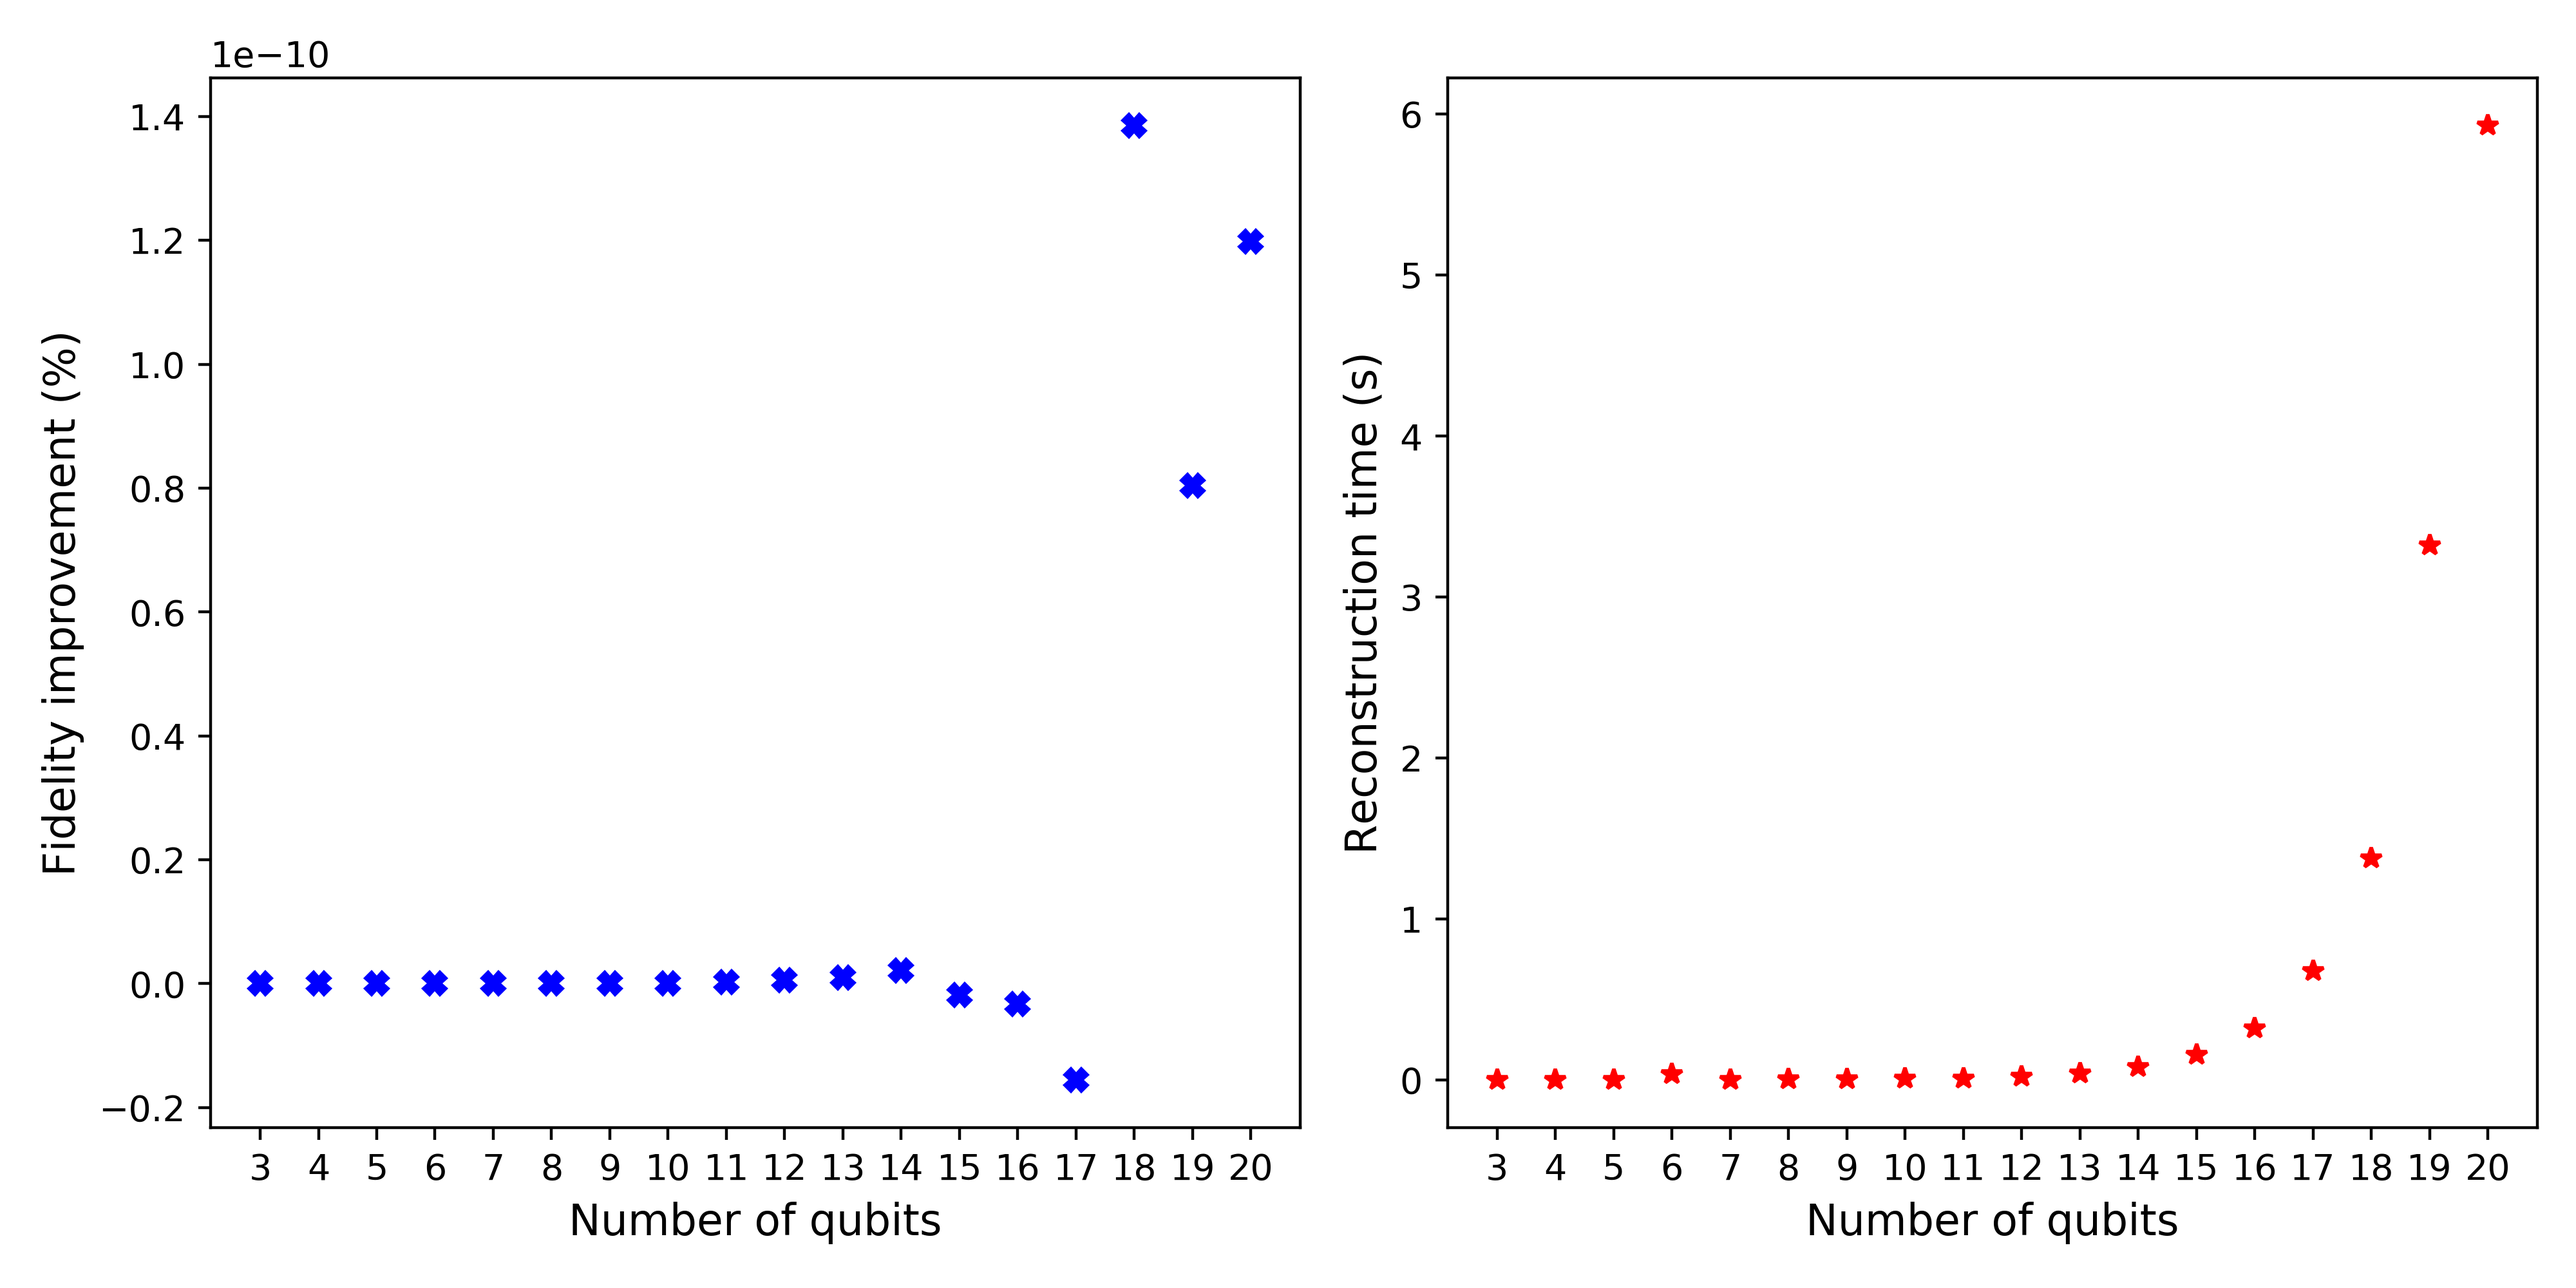
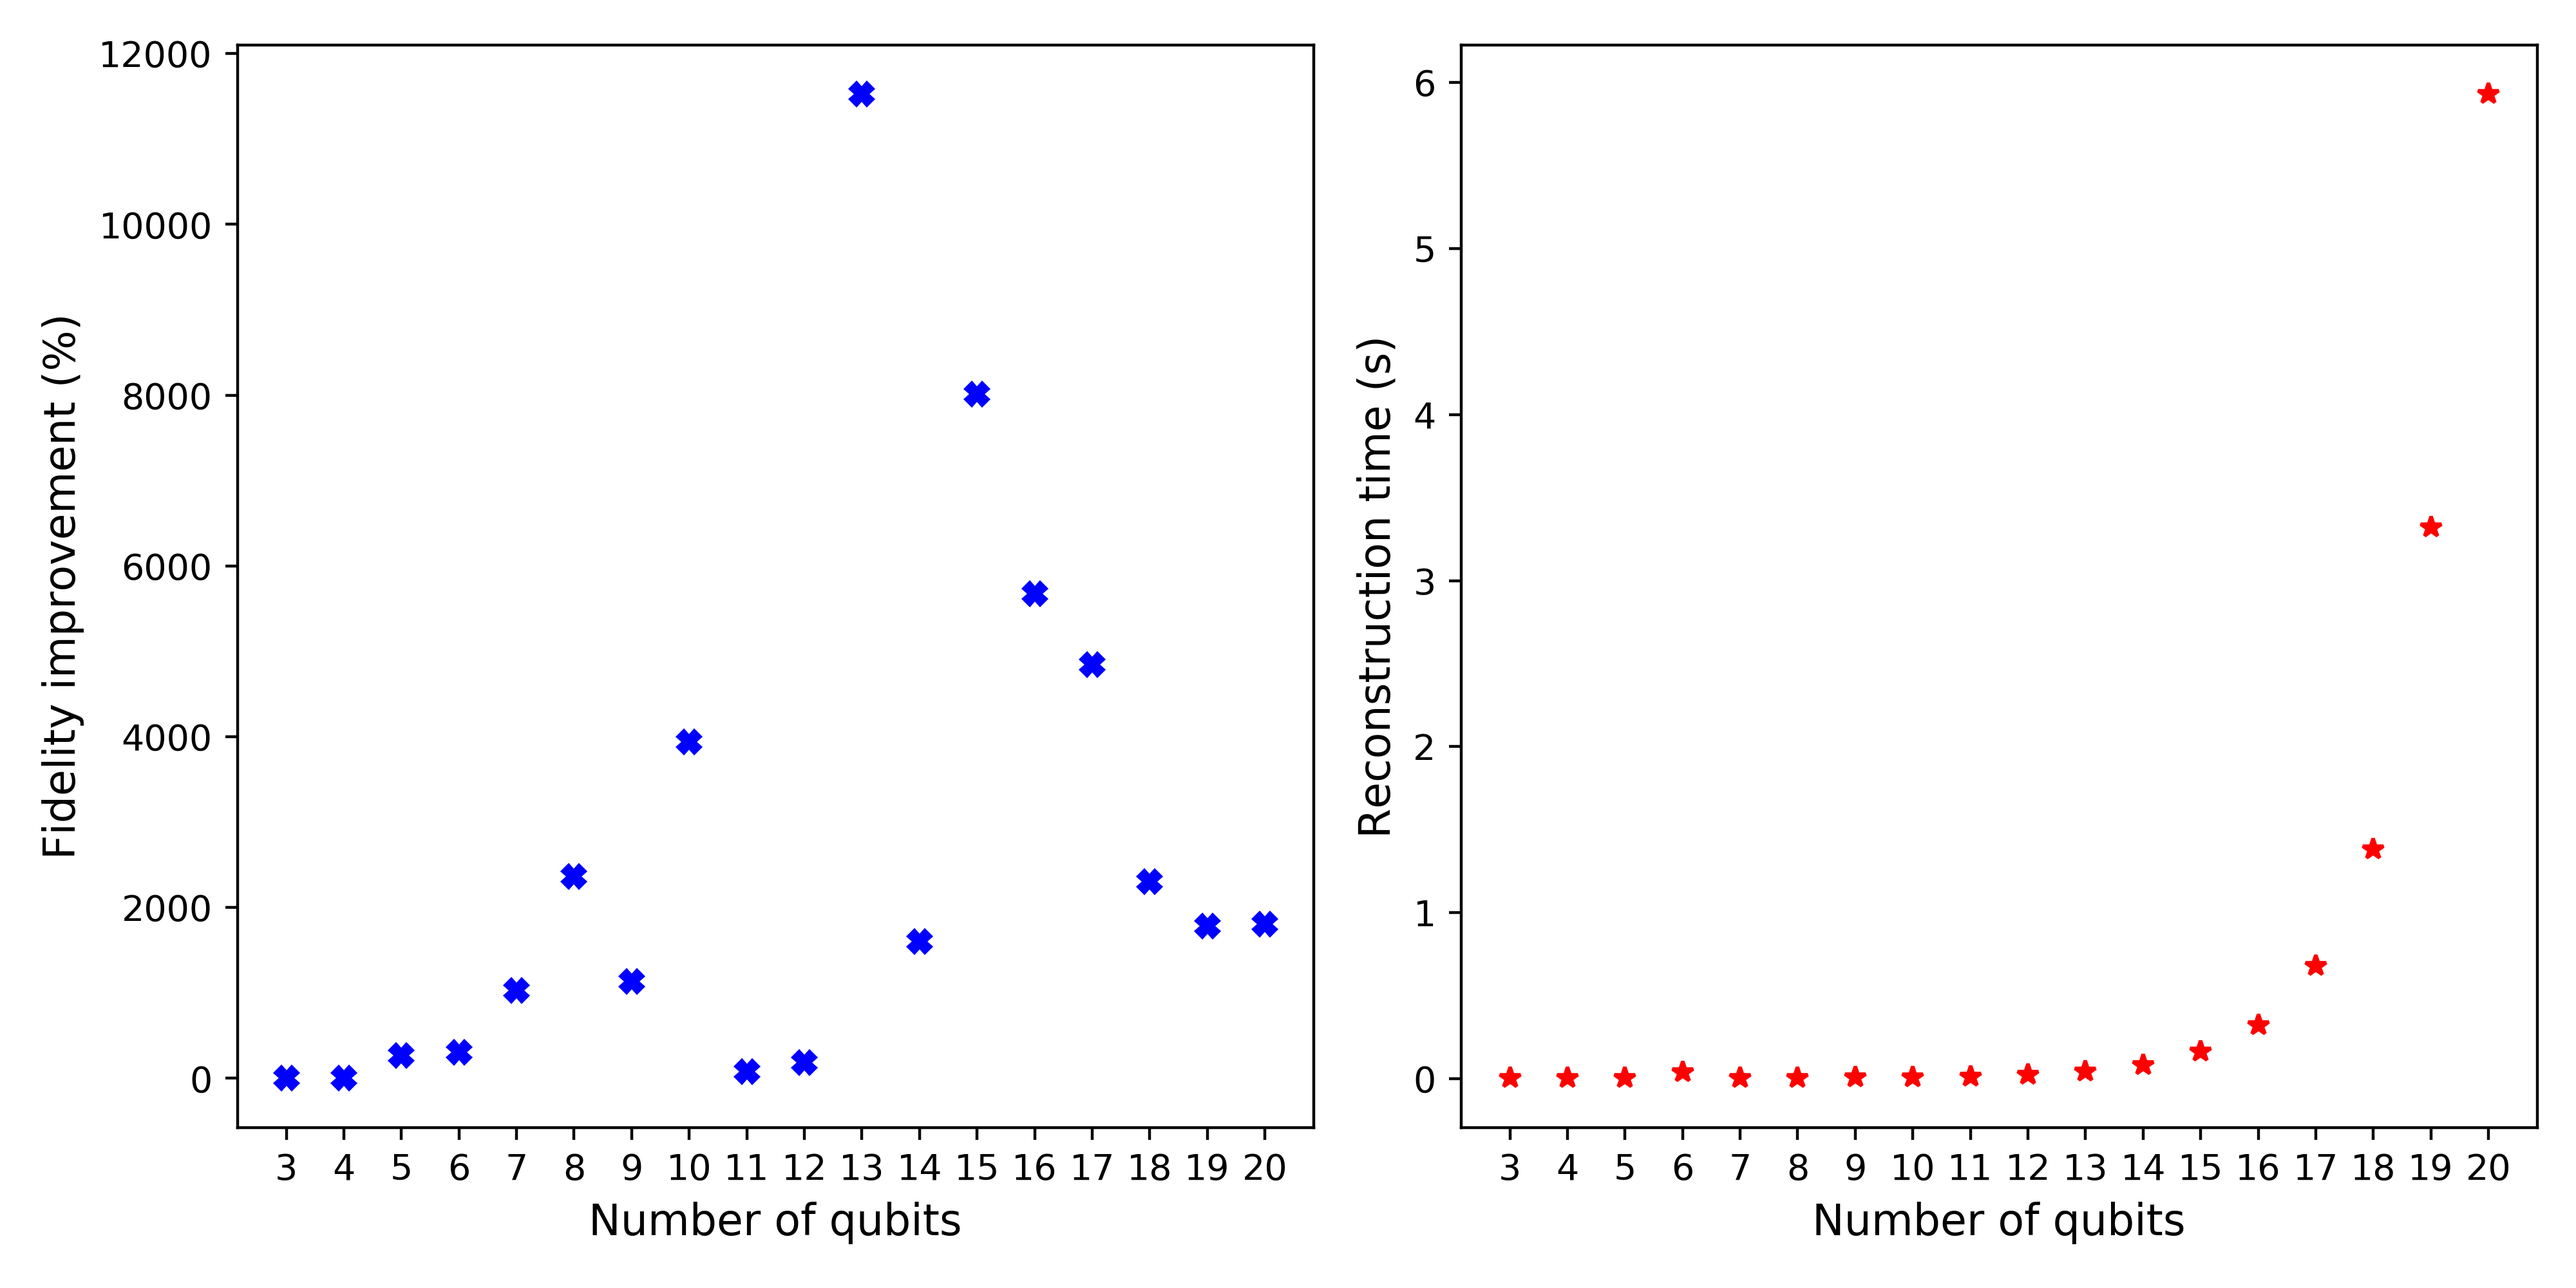
debugged fidelity metric

diff --git a/utils/metrics.py b/utils/metrics.py
@@ -24,7 +24,7 @@ def fidelity(target,obs):
         print('sum of obs =',sum(obs))
     fidelity = 0
     for t,o in zip(target,obs):
-        if t!= 0:
+        if t > 1e-16:
             fidelity += o
     return fidelity
 
